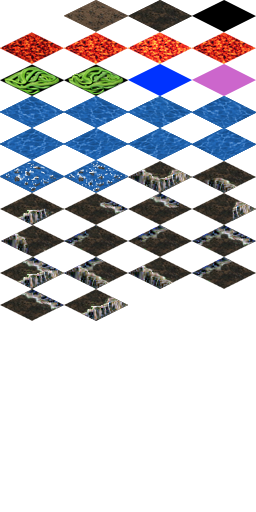
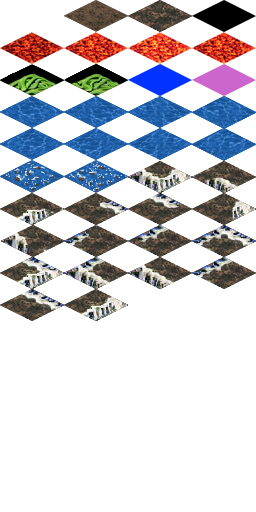
A single tree.

Changed region(s): [[0.0, 0.3125, 1.0, 0.625], [0.0, 0.125, 0.5, 0.1875], [0.5, 0.0, 0.75, 0.0625]]

diff --git a/render.py b/render.py
@@ -7,6 +7,7 @@ import settings
 
 tileset = pygame.image.load('img/tile_colours.png')
 player = pygame.image.load('img/character.png')
+dead_tree = pygame.image.load('img/dead_tree.png')
 
 class Render():
     
@@ -19,6 +20,8 @@ class Render():
         self.i = 0
         self.px = 0
         self.py = 0
+        self.tree_x = 14*32
+        self.tree_y = 6*16
         
     def draw(self):
         
@@ -51,6 +54,7 @@ class Render():
 
             y += 1
         self.window.blit( player, (self.px,self.py) )
+        self.window.blit( dead_tree, (self.tree_x,self.tree_y) )
             
     def draw_cell(self,x,y):
         # Read ground type

diff --git a/settings.py b/settings.py
@@ -14,6 +14,8 @@ key_right = [K_RIGHT,K_d]
 entities = []
  # 0: player
 entities.append(Entity('img/character.png'))
+ # 1: dead tree
+entities.append(Entity('img/dead_tree.png'))
 
 
  # Tiles
